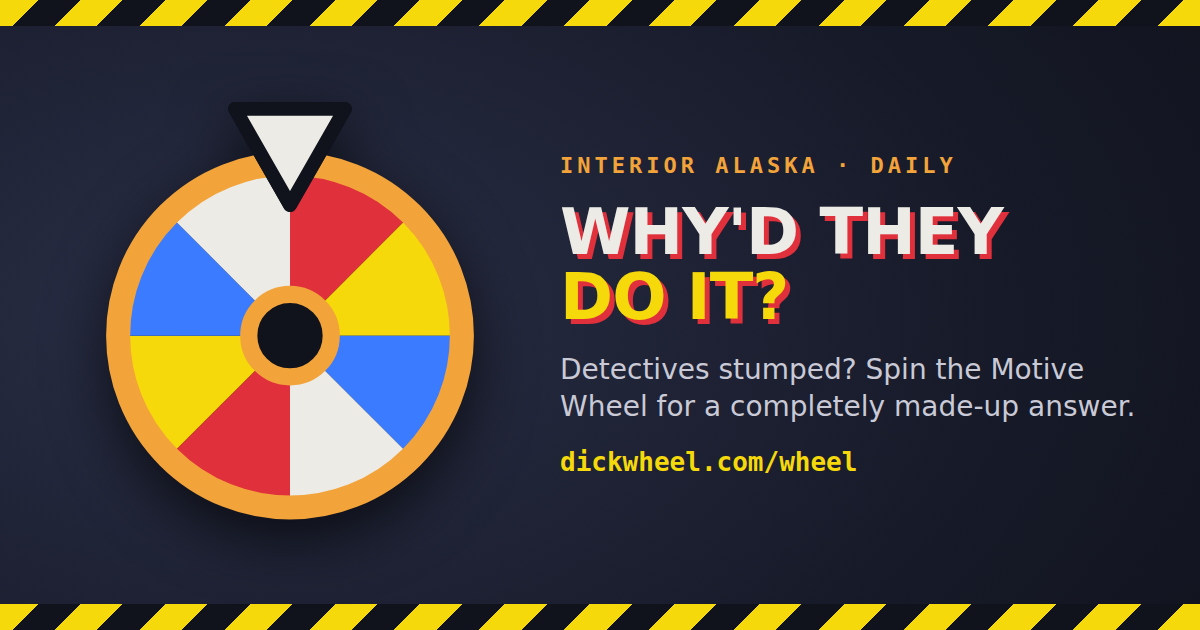
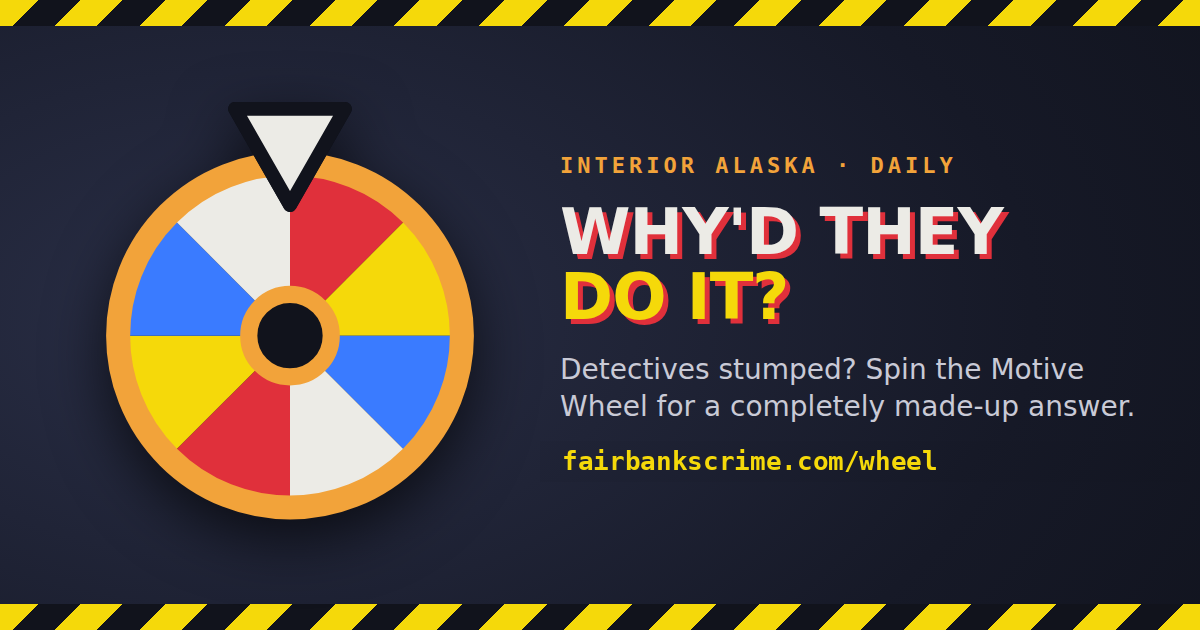
Switch primary domain to fairbankscrime.com

Changed region(s): [[0.4625, 0.7238, 0.7708, 0.754]]

diff --git a/wheel/index.html b/wheel/index.html
@@ -3,7 +3,7 @@
 <head>
 <meta charset="utf-8">
 <meta name="viewport" content="width=device-width,initial-scale=1,viewport-fit=cover">
-<title>Why'd They Do It? · Motive Wheel · dickwheel.com</title>
+<title>Why'd They Do It? · Motive Wheel · fairbankscrime.com</title>
 <meta name="description" content="Spin the wheel for a sarcastic, entirely made-up motive. Satire.">
 <style>*{box-sizing:border-box}
 .back{font:600 13px "IBM Plex Mono",ui-monospace,monospace;color:#f2a33a;text-decoration:none;background:#11131ccc;padding:6px 10px;border-radius:6px;border:1px solid #2d3144}
@@ -14,11 +14,11 @@
 <link rel="apple-touch-icon" href="/static/icons/apple-touch-icon.png">
 <link rel="manifest" href="/static/site.webmanifest">
 <meta property="og:type" content="website">
-<meta property="og:site_name" content="dickwheel.com">
+<meta property="og:site_name" content="fairbankscrime.com">
 <meta property="og:title" content="Why'd They Do It? Spin the Motive Wheel">
 <meta property="og:description" content="Detectives stumped? Spin the Motive Wheel for a completely made-up answer. Satire.">
-<meta property="og:url" content="https://dickwheel.com/wheel/">
-<meta property="og:image" content="https://dickwheel.com/static/share/og-wheel.png">
+<meta property="og:url" content="https://fairbankscrime.com/wheel/">
+<meta property="og:image" content="https://fairbankscrime.com/static/share/og-wheel.png">
 <meta property="og:image:width" content="1200"><meta property="og:image:height" content="630">
 <meta name="twitter:card" content="summary_large_image">
 </head>
@@ -114,7 +114,7 @@ button{font:inherit;cursor:pointer;border-radius:6px;border:0}
 button:focus-visible{outline:3px solid var(--tape);outline-offset:3px}
 .fine{width:88%;margin:5cqi 0 4cqi;text-align:center;font-family:var(--mono);font-size:max(9px,2.3cqi);line-height:1.4;color:var(--muted);letter-spacing:.04em}
 
-/* embedded in the dickwheel.com sidebar */
+/* embedded in the site sidebar */
 html.embed body{padding:0;background:transparent;justify-content:flex-start}
 html.embed .stage{width:100%;box-shadow:none}
 html.embed .back{display:none}
@@ -128,7 +128,7 @@ html.embed .back{display:none}
 <main class="stage" id="stage">
   <div class="tape" aria-hidden="true"><span>ALLEGEDLY · DO NOT CROSS · ALLEGEDLY · DO NOT CROSS · ALLEGEDLY · DO NOT CROSS · ALLEGEDLY · DO NOT CROSS · ALLEGEDLY · DO NOT CROSS · ALLEGEDLY · DO NOT CROSS · ALLEGEDLY · DO NOT CROSS · ALLEGEDLY · DO NOT CROSS ·&nbsp;</span></div>
   <header>
-    <div class="eyebrow">dickwheel.com · Motive Division</div>
+    <div class="eyebrow">fairbankscrime.com · Motive Division</div>
     <h1>Why'd They <em>Do It?</em></h1>
   </header>
 
@@ -322,7 +322,7 @@ document.getElementById('spin').addEventListener('click', spin);
 let LAST = -1;
 document.getElementById('share').addEventListener('click', e=>{
   if(LAST<0) return;
-  const btn=e.currentTarget, url='https://dickwheel.com/wheel/';
+  const btn=e.currentTarget, url='https://fairbankscrime.com/wheel/';
   const text=`The Motive Wheel says: "${MOTIVES[LAST][0]}". ${MOTIVES[LAST][1]} Spin your own:`;
   if(navigator.share){ navigator.share({title:"Why'd they do it?", text, url}).catch(()=>{}); return; }
   const done=()=>{btn.textContent='COPIED!'; setTimeout(()=>btn.textContent='SHARE',1800);};

diff --git a/build.py b/build.py
@@ -1,5 +1,5 @@
 #!/usr/bin/env python3
-"""Build the dickwheel.com static site from data/editions/*.json.
+"""Build the fairbankscrime.com static site from data/editions/*.json.
 
 Usage:  python3 build.py            -> writes ./public
 Env:    SITE_URL   full public URL, e.g. https://fairbankscrime.com  (for RSS + canonical links)
@@ -19,7 +19,10 @@ ROOT = Path(__file__).parent
 DATA = ROOT / "data"
 OUT = ROOT / "public"
 SITE_NAME = "Allegedly, these crimes occurred, but maybe not."
-SITE_URL = os.environ.get("SITE_URL", "https://dickwheel.com").rstrip("/")
+# The CNAME file is the source of truth for the public domain; SITE_URL env is only a fallback.
+_cname = (Path(__file__).parent / "CNAME")
+SITE_URL = ("https://" + _cname.read_text().strip() if _cname.exists() and _cname.read_text().strip()
+            else os.environ.get("SITE_URL", "https://fairbankscrime.com")).rstrip("/")
 BASE = os.environ.get("BASE_PATH", "/")
 if not BASE.endswith("/"):
     BASE += "/"
@@ -127,13 +130,13 @@ def page(path, title, body, description="", active=""):
 <title>{e(full_title)}</title>
 <meta name="description" content="{e(description or 'Daily crime and court record for Fairbanks and Interior Alaska, compiled from primary sources.')}">
 <meta property="og:type" content="website">
-<meta property="og:site_name" content="dickwheel.com">
+<meta property="og:site_name" content="fairbankscrime.com">
 <meta property="og:title" content="{e(full_title)}">
 <meta property="og:description" content="{e(description or 'Daily crime and court record for Fairbanks and Interior Alaska, compiled from primary sources.')}">
 <meta property="og:url" content="{SITE_URL}{BASE}{path}">
 <meta property="og:image" content="{SITE_URL}{BASE}static/share/og-default.png">
 <meta property="og:image:width" content="1200"><meta property="og:image:height" content="630">
-<meta property="og:image:alt" content="Allegedly, these crimes occurred. Fairbanks crime record at dickwheel.com">
+<meta property="og:image:alt" content="Allegedly, these crimes occurred. Fairbanks crime record at fairbankscrime.com">
 <meta name="twitter:card" content="summary_large_image">
 <link rel="icon" href="/favicon.ico" sizes="any">
 <link rel="icon" href="/static/icons/favicon.svg" type="image/svg+xml">
@@ -506,8 +509,8 @@ def build():
 <p class="presumption">For emergencies call 911. Crime reports go to the Fairbanks Police Department or Alaska State Troopers, not here.</p>
 <form class="contact-form" id="contact-form" action="https://api.web3forms.com/submit" method="POST">
 <input type="hidden" name="access_key" value="{CONTACT_KEY}">
-<input type="hidden" name="from_name" value="dickwheel.com contact form">
-<input type="hidden" name="subject" value="dickwheel.com: message">
+<input type="hidden" name="from_name" value="fairbankscrime.com contact form">
+<input type="hidden" name="subject" value="fairbankscrime.com: message">
 <input type="checkbox" name="botcheck" class="hp" tabindex="-1" autocomplete="off" aria-hidden="true">
 <fieldset class="cf-reasons"><legend>What is this about?</legend>
 <label class="reason"><input type="radio" name="topic" value="Correction" required checked><span class="r-t">Something's wrong</span><span class="r-s">An entry has an error in it</span></label>
@@ -540,7 +543,7 @@ var sends={{"Hot Tip":"Send it hot","Complaint":"File my complaint"}};
 function sync(){{var t=f.topic.value;msg.placeholder=hints[t]||"";btn.textContent=sends[t]||"Send message"}}
 f.addEventListener("change",function(e){{if(e.target.name==="topic")sync()}});sync();
 f.addEventListener("submit",function(e){{e.preventDefault();var t=f.topic.value;
-f.querySelector('[name="subject"]').value="dickwheel.com: "+t;
+f.querySelector('[name="subject"]').value="fairbankscrime.com: "+t;
 btn.disabled=true;btn.textContent="Sending…";st.className="cf-status";st.textContent="";
 fetch(f.action,{{method:"POST",headers:{{"Accept":"application/json"}},body:new FormData(f)}})
 .then(function(r){{return r.json()}}).then(function(d){{if(!d.success)throw new Error(d.message||"failed");

diff --git a/scripts/import_drive.py b/scripts/import_drive.py
@@ -16,7 +16,7 @@ ED_DIR = ROOT / "data" / "editions"
 CORR = ROOT / "data" / "corrections.json"
 FOLDER = os.environ.get("DRIVE_FOLDER_ID") or sys.exit("DRIVE_FOLDER_ID not set")
 LOOKBACK = int(os.environ.get("LOOKBACK_DAYS", "21"))
-UA = {"User-Agent": "Mozilla/5.0 (dickwheel.com site builder)"}
+UA = {"User-Agent": "Mozilla/5.0 (fairbankscrime.com site builder)"}
 NAME_RE = re.compile(r"^edition-(\d{4}-\d{2}-\d{2})(?:-r(\d+))?\.json$")
 
 
